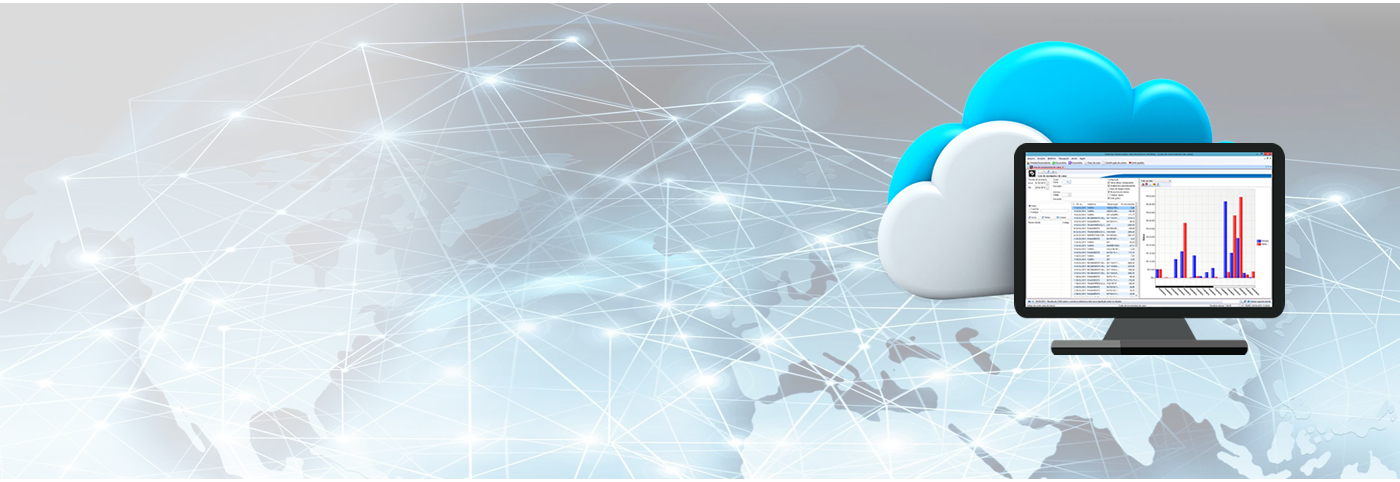
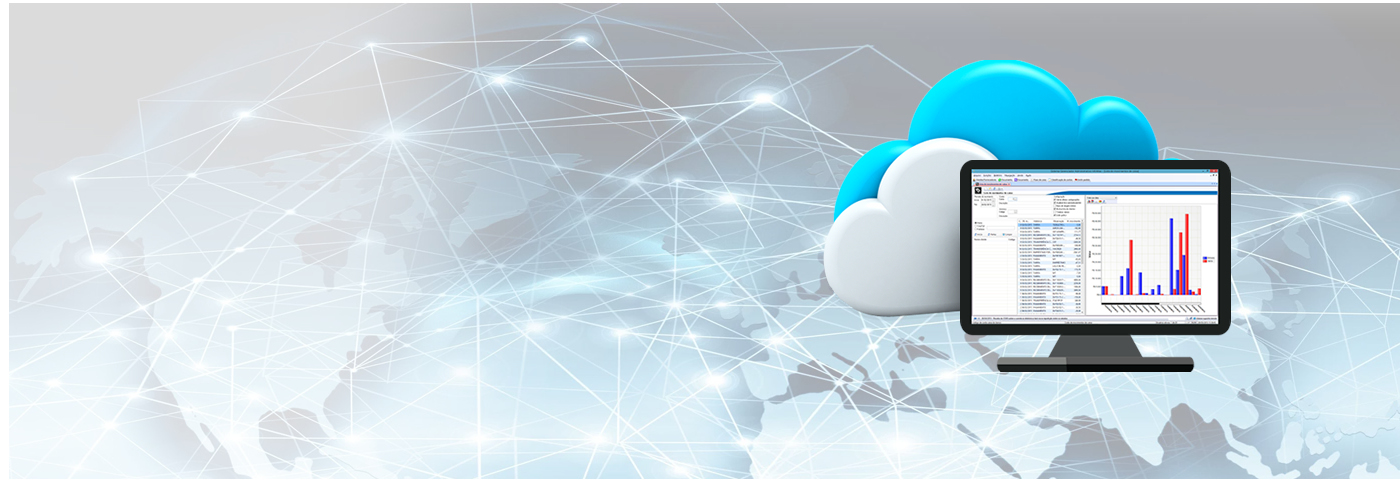
Ajustes nas imagens do slide 2

diff --git a/assets/css/style.css b/assets/css/style.css
@@ -139,7 +139,7 @@ nav ul li a:hover::after {
     font-size: 2em;
     font-weight: bold;
 }
-  
+
 .dot {
     height: 1em;
     width: 1em;
@@ -161,7 +161,7 @@ nav ul li a:hover::after {
 }
   
 .bg1, .bg2, .bg3 {
-    height: 50vh;
+    height: 60vh;
     background-size: cover;
     background-repeat: no-repeat;
 }
@@ -171,7 +171,7 @@ nav ul li a:hover::after {
 }
   
 .bg2 {
-    background-image: url('../img/slide-bg2.jpg');
+    background-image: url('../img/slide-bg21.jpg');
 }
   
 .bg3 {

diff --git a/index.html b/index.html
@@ -75,7 +75,7 @@
           
             <div class="slide fade bg2">
                 <div class="text container">
-                    <p>Desenvolvimento de sistemas e sites<br/>Soluções 100% online!</p>
+                    <p>Desenvolvimento de sistemas<br/> e sites. Soluções 100% online!</p>
                 </div>
             </div>
           
